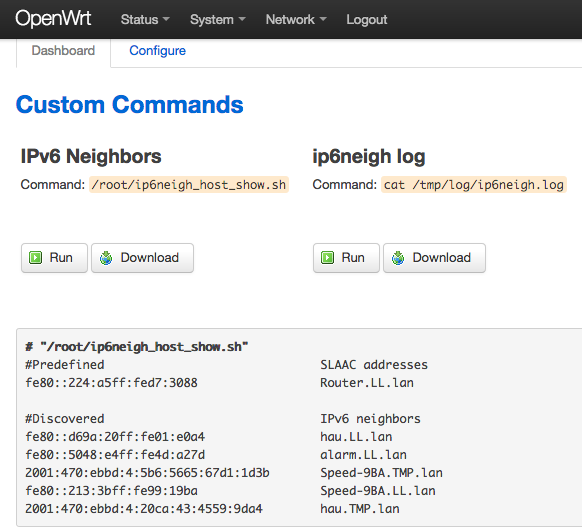
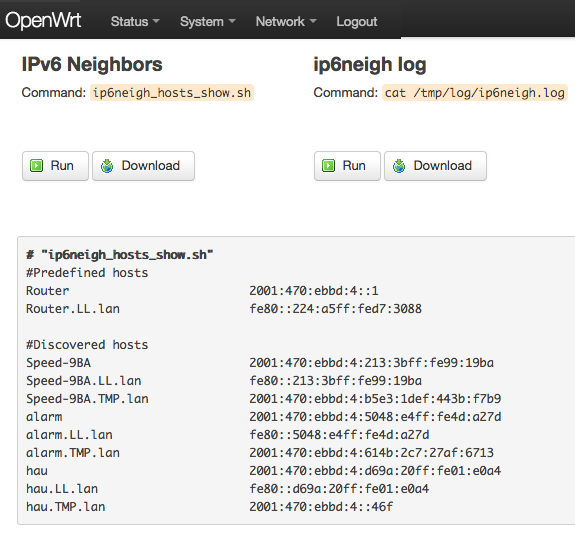
Updated Doc to reflect conistant hosts display and name ip6neigh_hosts_show.sh

diff --git a/README.md b/README.md
@@ -149,13 +149,21 @@ It is possible to see the host file via the LuCI web interface by using luci-app
 
 	```
 	# ip6neigh_host_show.sh 
-	#Predefined                              SLAAC addresses
-	fe80::224:a5ff:fed7:3088                 Router.LL.lan 
-	2001:470:ebbd:4::1                       Router 
+	#Predefined hosts
+	Router                         2001:470:ebbd:4::1 
+	Router.LL.lan                  fe80::224:a5ff:fed7:3088 
 
-	#Discovered                              IPv6 neighbors
-	fe80::5048:e4ff:fe4d:a27d                alarm.LL.lan 
-	2001:470:ebbd:4:5048:e4ff:fe4d:a27d      alarm 
+	#Discovered hosts
+	Speed-9BA                      2001:470:ebbd:4:213:3bff:fe99:19ba 
+	Speed-9BA.LL.lan               fe80::213:3bff:fe99:19ba 
+	Speed-9BA.TMP.lan              2001:470:ebbd:4:b5e3:1def:443b:f7b9 
+	alarm                          2001:470:ebbd:4:5048:e4ff:fe4d:a27d 
+	alarm.LL.lan                   fe80::5048:e4ff:fe4d:a27d 
+	alarm.TMP.lan                  2001:470:ebbd:4:614b:2c7:27af:6713 
+	hau                            2001:470:ebbd:4:d69a:20ff:fe01:e0a4 
+	hau.LL.lan                     fe80::d69a:20ff:fe01:e0a4 
+	hau.TMP.lan                    2001:470:ebbd:4::46f 
+
 	```
 	
 
